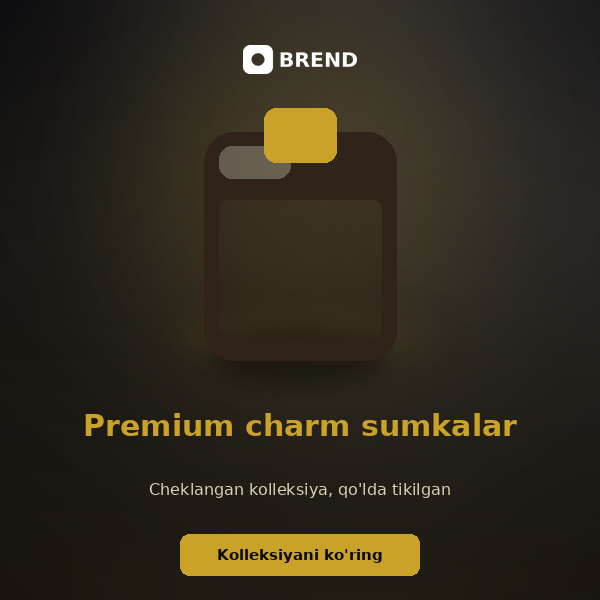
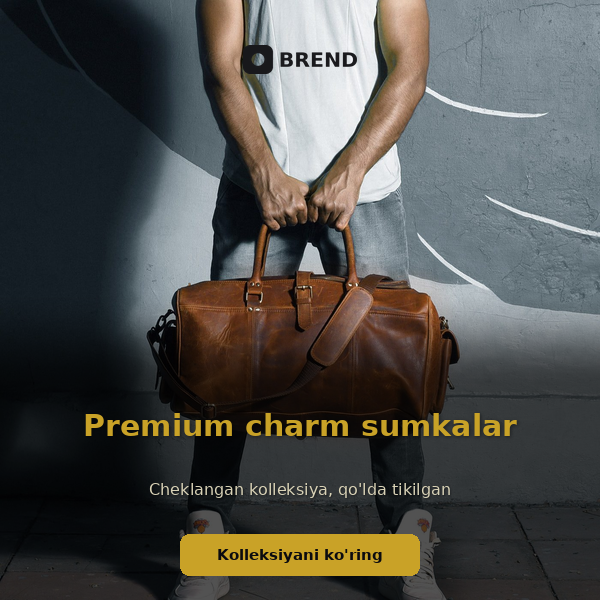
Kreativ shablonlar: haqiqiy suratlar (Burst) + matn uchun avtomatik scrim
20 ta shablon va 6 ta karusel namunasi endi professional suratlarda
(Shopify Burst, tijorat uchun bepul — photos/CREDITS.md). Matn surat
ustida o'qilmay qolmasligi uchun WCAG kontrastga qarab avtomatik
gradient scrim va och matnga soya qo'shildi.

Claude-Session: https://claude.ai/code/session_01SJvgJXRoFNgq3MB6ZPfDzq

diff --git a/app/creative_studio.py b/app/creative_studio.py
@@ -1842,6 +1842,7 @@ def _draw_text_layer(canvas, layer, W, H):
     draw = ImageDraw.Draw(canvas)
     color = _hex_to_rgb(layer.get("color"))
     align = layer.get("align") or "left"
+    positions = []
     cy = y
     for ln in lines:
         lw = font.getlength(ln)
@@ -1851,8 +1852,20 @@ def _draw_text_layer(canvas, layer, W, H):
             lx = x + w - lw
         else:
             lx = x
-        draw.text((lx, cy), ln, font=font, fill=color + (255,))
+        positions.append((lx, cy, ln))
         cy += line_h
+    # 2026-10-01: och rangli matnga yengil soya -- surat ustida ham aniq
+    # o'qilsin (reklamalardagi standart usul). To'q matnga soya qo'yilmaydi.
+    if _rel_luminance(color) > 0.35 and not layer.get("no_shadow"):
+        from PIL import Image, ImageFilter
+        shadow = Image.new("RGBA", canvas.size, (0, 0, 0, 0))
+        sd = ImageDraw.Draw(shadow)
+        off = max(1, int(size * 0.05))
+        for lx, ly, ln in positions:
+            sd.text((lx + off, ly + off), ln, font=font, fill=(0, 0, 0, 120))
+        canvas.alpha_composite(shadow.filter(ImageFilter.GaussianBlur(radius=max(1, int(size * 0.08)))))
+    for lx, ly, ln in positions:
+        draw.text((lx, ly), ln, font=font, fill=color + (255,))
 
 
 def _draw_badge(canvas, layer, W, H):
@@ -1922,6 +1935,103 @@ def _draw_logo(canvas, layer, W, H, logo_path: "Path | None"):
     canvas.alpha_composite(logo, (lx, ly))
 
 
+def _rel_luminance(rgb) -> float:
+    def ch(c):
+        c = c / 255.0
+        return c / 12.92 if c <= 0.03928 else ((c + 0.055) / 1.055) ** 2.4
+    r, g, b = rgb[:3]
+    return 0.2126 * ch(r) + 0.7152 * ch(g) + 0.0722 * ch(b)
+
+
+def _contrast(l1: float, l2: float) -> float:
+    hi, lo = max(l1, l2), min(l1, l2)
+    return (hi + 0.05) / (lo + 0.05)
+
+
+# 2026-10-01: matn surat ustida o'qilmay qolmasligi uchun avtomatik "scrim".
+# Matn qutisi ostidagi fon yetarli kontrast bermasa (WCAG < 4.5) yoki juda
+# "ola-bula" bo'lsa -- matn ortiga yumshoq (chetlari xira) qoraytirish yoki
+# yoritish chiziladi. Tekis rangli fonda hech narsa o'zgarmaydi.
+SCRIM_MIN_CONTRAST = 4.5
+SCRIM_BUSY_STDEV = 0.12
+
+
+def _scrim_need(canvas, layer, W, H):
+    """Matn qatlami uchun scrim kerak bo'lsa (qoraytirish?, alfa, y0, y1), aks holda None."""
+    import statistics
+    x, y = int(layer["x"] * W), int(layer["y"] * H)
+    w, h = max(1, int(layer["w"] * W)), max(1, int(layer["h"] * H))
+    region = canvas.crop((max(0, x), max(0, y), min(W, x + w), min(H, y + h))).convert("RGB").resize((16, 16))
+    pixels = list(region.getdata())
+    lums = [_rel_luminance(px) for px in pixels]
+    bg_lum = sum(lums) / len(lums)
+    busy = statistics.pstdev(lums) > SCRIM_BUSY_STDEV
+    text_lum = _rel_luminance(_hex_to_rgb(layer.get("color")))
+    if _contrast(text_lum, bg_lum) >= SCRIM_MIN_CONTRAST and not busy:
+        return None
+    dark = _contrast(text_lum, 0.0) >= _contrast(text_lum, 1.0)
+    scrim = (0, 0, 0) if dark else (255, 255, 255)
+    avg = tuple(sum(px[i] for px in pixels) / len(pixels) for i in range(3))
+    alpha = 0.35
+    while alpha < 0.85:
+        mixed = tuple(avg[i] * (1 - alpha) + scrim[i] * alpha for i in range(3))
+        if _contrast(text_lum, _rel_luminance(mixed)) >= SCRIM_MIN_CONTRAST + 1.5:
+            break
+        alpha += 0.05
+    if busy:
+        alpha = max(alpha, 0.68 if dark else 0.75)
+    return dark, min(alpha, 0.85), y, y + h
+
+
+def _auto_scrim(canvas, layers: list[dict], W: int, H: int) -> None:
+    """Pastdagi matnlar uchun -- pastdan, tepadagilar uchun -- tepadan
+    to'liq kenglikdagi silliq gradient (reklamalardagi kabi); o'rtadagilar
+    uchun -- yumshoq chetli tasma."""
+    from PIL import Image, ImageDraw, ImageFilter
+    needs = []
+    for layer in layers or []:
+        if layer.get("hidden") or layer.get("type") != "text" or layer.get("no_scrim"):
+            continue
+        text = (layer.get("text") or "").strip()
+        if not text or "{{" in text:
+            continue
+        r = _scrim_need(canvas, layer, W, H)
+        if r:
+            needs.append(r)
+    if not needs:
+        return
+    groups = {"top": [], "mid": [], "bottom": []}
+    for dark, alpha, y0, y1 in needs:
+        c = (y0 + y1) / 2 / H
+        groups["top" if c < 0.35 else ("bottom" if c > 0.55 else "mid")].append((dark, alpha, y0, y1))
+    feather = int(H * 0.16)
+    for pos, items in groups.items():
+        if not items:
+            continue
+        dark = sum(1 for i in items if i[0]) >= len(items) / 2
+        alpha = max(i[1] for i in items)
+        y0, y1 = min(i[2] for i in items), max(i[3] for i in items)
+        mask = Image.new("L", (1, H), 0)
+        md = mask.load()
+        for yy in range(H):
+            if pos == "bottom":
+                t = 1.0 if yy >= y0 - feather * 0.25 else max(0.0, 1 - (y0 - feather * 0.25 - yy) / feather)
+            elif pos == "top":
+                t = 1.0 if yy <= y1 + feather * 0.25 else max(0.0, 1 - (yy - y1 - feather * 0.25) / feather)
+            else:
+                pad = feather * 0.35
+                if y0 - pad <= yy <= y1 + pad:
+                    t = 1.0
+                else:
+                    dist = (y0 - pad - yy) if yy < y0 - pad else (yy - y1 - pad)
+                    t = max(0.0, 1 - dist / (feather * 0.7))
+            md[0, yy] = int(255 * alpha * (t * t * (3 - 2 * t)))  # smoothstep
+        mask = mask.resize((W, H))
+        color = Image.new("RGBA", (W, H), ((0, 0, 0) if dark else (255, 255, 255)) + (255,))
+        color.putalpha(mask)
+        canvas.alpha_composite(color)
+
+
 def render_composite(base_image_path: "Path", layers: list[dict], brand_kit, out_path: "Path", *, target_size: "tuple[int, int]") -> None:
     """Pillow orqali: base rasmni `target_size`ga 'cover' rejimida (nisbatni
     saqlab, markazdan kesib) moslaydi, so'ng har bir qatlamni chizadi:
@@ -1940,9 +2050,18 @@ def render_composite(base_image_path: "Path", layers: list[dict], brand_kit, out
         base = raw.convert("RGB")
     canvas = _cover_resize(base, (W, H)).convert("RGBA")
     logo_path = brand_logo_file_path(brand_kit)
+    scrim_done = False
     for layer in layers or []:
         if layer.get("hidden"):
             continue
+        if not scrim_done and layer.get("type") == "text":
+            # Panellar (agar oldinroq bo'lsa) chizilgandan keyin, birinchi
+            # matndan oldin -- matn qutilari ostini bir marta tekshiramiz.
+            try:
+                _auto_scrim(canvas, layers, W, H)
+            except Exception as e:  # noqa: BLE001
+                logger.warning("creative_studio: scrim chizilmadi: %s", e)
+            scrim_done = True
         try:
             ltype = layer.get("type")
             if ltype == "panel":

diff --git a/app/scripts/test_creative_scrim_offline.py b/app/scripts/test_creative_scrim_offline.py
@@ -1,0 +1,101 @@
+"""test_creative_scrim_offline.py — Kreativ studiya: matn surat ustida
+o'qilishi uchun avtomatik "scrim" (`creative_studio._auto_scrim`):
+
+  1. Tekis to'q fonda oq matn -- kontrast yetarli, rasm O'ZGARMAYDI.
+  2. Ola-bula (yorug'/qorong'i chiziqli) fonda oq matn -- matn ostidagi
+     o'rtacha kontrast WCAG 4.5 dan oshadi (qoraytiriladi), tepasi tegilmaydi.
+  3. Yorug' fonda qora matn -- oq yoritish chiziladi (fon yorug'lashadi).
+  4. `no_scrim`, yashirin, bo'sh / placeholder matn -- e'tiborsiz qoladi.
+  5. `render_composite` oxirigacha ishlaydi.
+Tashqi tarmoq so'rovi yo'q.
+"""
+import os
+import sys
+import tempfile
+from pathlib import Path
+
+sys.path.insert(0, os.path.dirname(os.path.dirname(os.path.abspath(__file__))))
+os.environ.setdefault("DATABASE_URL", f"sqlite:///{os.path.join(tempfile.mkdtemp(), 'scrim.db')}")
+
+from PIL import Image, ImageDraw  # noqa: E402
+
+import creative_studio as cs  # noqa: E402
+
+W = H = 400
+FAILED = []
+
+
+def check(name, cond):
+    print(("PASS " if cond else "FAIL ") + name)
+    if not cond:
+        FAILED.append(name)
+
+
+def text_layer(**kw):
+    d = {"type": "text", "text": "Yangi kolleksiya", "x": 0.05, "y": 0.75, "w": 0.9, "h": 0.15, "color": "#FFFFFF"}
+    d.update(kw)
+    return d
+
+
+def busy_canvas():
+    im = Image.new("RGBA", (W, H), (255, 255, 255, 255))
+    d = ImageDraw.Draw(im)
+    for x in range(0, W, 20):
+        d.rectangle((x, 0, x + 9, H), fill=(20, 20, 20, 255))
+    return im
+
+
+def region_contrast(canvas, layer):
+    x, y = int(layer["x"] * W), int(layer["y"] * H)
+    reg = canvas.crop((x, y, x + int(layer["w"] * W), y + int(layer["h"] * H))).convert("RGB")
+    px = list(reg.getdata())
+    avg = tuple(sum(p[i] for p in px) / len(px) for i in range(3))
+    return cs._contrast(cs._rel_luminance(cs._hex_to_rgb(layer["color"])), cs._rel_luminance(avg))
+
+
+# 1. Tekis to'q fon
+solid = Image.new("RGBA", (W, H), (15, 23, 42, 255))
+before = solid.tobytes()
+cs._auto_scrim(solid, [text_layer()], W, H)
+check("tekis to'q fon + oq matn -> o'zgarishsiz", solid.tobytes() == before)
+
+# 2. Ola-bula fon, oq matn
+busy = busy_canvas()
+L = text_layer()
+c0 = region_contrast(busy, L)
+top_before = busy.crop((0, 0, W, 60)).tobytes()
+cs._auto_scrim(busy, [L], W, H)
+c1 = region_contrast(busy, L)
+check(f"ola-bula fon: kontrast {c0:.2f} -> {c1:.2f} (>=4.5)", c0 < 4.5 <= c1)
+check("pastki matn uchun scrim tepani o'zgartirmaydi", busy.crop((0, 0, W, 60)).tobytes() == top_before)
+
+# 3. Kulrang fon, qora matn -> yoritish
+light = Image.new("RGBA", (W, H), (100, 100, 100, 255))
+D = text_layer(color="#111111", y=0.05)
+c0 = region_contrast(light, D)
+cs._auto_scrim(light, [D], W, H)
+px = light.getpixel((W // 2, int(0.1 * H)))
+check("to'q kulrang fonda qora matn: fon yorug'lashdi", px[0] > 100 and region_contrast(light, D) >= 4.5 and region_contrast(light, D) > c0)
+
+# 4. no_scrim / yashirin / bo'sh / placeholder
+for name, lay in (("no_scrim", text_layer(no_scrim=True)), ("bo'sh matn", text_layer(text="  ")),
+                  ("placeholder", text_layer(text="{{headline}}")), ("yashirin", text_layer(hidden=True))):
+    im = busy_canvas()
+    b = im.tobytes()
+    cs._auto_scrim(im, [lay], W, H)
+    check(f"{name} -> e'tiborsiz", im.tobytes() == b)
+
+# 5. render_composite oxirigacha
+tmp = Path(tempfile.mkdtemp())
+src = tmp / "src.png"
+busy_canvas().convert("RGB").save(src)
+out = tmp / "out.png"
+cs.render_composite(src, [text_layer()], None, out, target_size=(W, H))
+with Image.open(out) as o:
+    check("render_composite: PNG to'g'ri o'lchamda", o.size == (W, H))
+
+print()
+if FAILED:
+    print(f"{len(FAILED)} ta test YIQILDI: {FAILED}")
+    sys.exit(1)
+print("Hammasi o'tdi.")

diff --git a/app/scripts/render_template_thumbnails.py b/app/scripts/render_template_thumbnails.py
@@ -338,6 +338,45 @@ def _logo_is_dark(tpl: dict, scene: Image.Image, size) -> bool:
     return lum > 140
 
 
+PHOTO_DIR = OUT_DIR / "photos"
+# Kadrdagi asosiy obyekt joylashuvi (0..1) -- "cover" kesishda shu nuqta
+# markazda qoladi (standart -- markaz).
+FOCUS = {
+    "minimal_clean": (0.62, 0.55), "luxury_dark": (0.5, 0.45), "tech_gradient": (0.62, 0.5),
+    "auto_dynamic": (0.5, 0.55), "new_arrival": (0.5, 0.6), "price_tag_highlight": (0.62, 0.5),
+    "real_estate_clean": (0.5, 0.35), "fashion_editorial": (0.5, 0.3), "testimonial_quote": (0.5, 0.3),
+    "before_after_split": (0.5, 0.35), "story_fullbleed": (0.5, 0.4),
+}
+
+
+def _photo_scene(tpl: dict, size: "tuple[int, int]") -> "Image.Image | None":
+    """2026-10-01 (foydalanuvchi: "shablonlarni real shablonlarga almashtir"):
+    namuna foni -- HAQIQIY surat (Shopify Burst, litsenziya: photos/CREDITS.md),
+    obyekt markazda qoladigan "cover" kesish bilan. Matn o'qilishini
+    `creative_studio._auto_scrim` ta'minlaydi (mijozning o'z suratida ham)."""
+    path = PHOTO_DIR / f"{tpl['key']}.jpg"
+    if not path.exists():
+        return None
+    W, H = size
+    img = Image.open(path).convert("RGB")
+    scale = max(W / img.width, H / img.height)
+    nw, nh = int(img.width * scale + 0.5), int(img.height * scale + 0.5)
+    img = img.resize((nw, nh), Image.LANCZOS)
+    fx, fy = FOCUS.get(tpl["key"], (0.5, 0.5))
+    left = min(max(0, int(fx * nw - W / 2)), nw - W)
+    top = min(max(0, int(fy * nh - H / 2)), nh - H)
+    img = img.crop((left, top, left + W, top + H))
+    if tpl["key"] == "before_after_split":
+        # "Avval" yarmi -- xira, sovuq, rangsizroq; "Keyin" -- asl surat.
+        from PIL import ImageEnhance
+        half = img.crop((0, 0, W // 2, H))
+        half = ImageEnhance.Color(half).enhance(0.35)
+        half = ImageEnhance.Brightness(half).enhance(0.82)
+        img.paste(half, (0, 0))
+        ImageDraw.Draw(img).rectangle((W // 2 - 2, 0, W // 2 + 2, H), fill=(255, 255, 255))
+    return img
+
+
 def render_all() -> list[Path]:
     OUT_DIR.mkdir(parents=True, exist_ok=True)
     tmp = Path(tempfile.mkdtemp())
@@ -347,7 +386,7 @@ def render_all() -> list[Path]:
     written = []
     for tpl in creative_templates.CREATIVE_TEMPLATES:
         size = _thumb_size(tpl["aspect_default"])
-        scene = _scene(tpl, size)
+        scene = _photo_scene(tpl, size) or _scene(tpl, size)
         base_path = tmp / f"{tpl['key']}_base.png"
         scene.save(base_path, format="PNG")
         values = dict(_BASE)

diff --git a/app/scripts/render_carousel_thumbnails.py b/app/scripts/render_carousel_thumbnails.py
@@ -71,7 +71,7 @@ def render_all() -> list[Path]:
     for style in creative_carousel.CAROUSEL_STYLES:
         scene_key, sample = SAMPLES[style["key"]]
         tpl = creative_templates.get_template(scene_key)
-        scene = base_thumbs._scene(tpl, (CARD_PX, CARD_PX))
+        scene = base_thumbs._photo_scene(tpl, (CARD_PX, CARD_PX)) or base_thumbs._scene(tpl, (CARD_PX, CARD_PX))
         base_path = tmp / f"{style['key']}_base.png"
         scene.save(base_path, format="PNG")
         cards = creative_carousel.plan_cards(sample, 4)

diff --git a/app/static/creative_templates/photos/CREDITS.md b/app/static/creative_templates/photos/CREDITS.md
@@ -1,0 +1,27 @@
+# Shablon namunalari uchun suratlar
+
+Manba: Shopify Burst (https://burst.shopify.com) — Burst litsenziyasi: tijoriy va notijoriy foydalanish, o'zgartirish mumkin; atributsiya shart emas (lekin tavsiya etiladi); suratlarning o'zini fayl sifatida sotish mumkin emas.
+https://burst.shopify.com/licenses/shopify-some-rights-reserved
+
+| Shablon | Surat |
+|---|---|
+| minimal_clean | https://burst.shopify.com/photos/yellow-sofa-with-throw-pillows |
+| bold_sale | https://burst.shopify.com/photos/woman-with-white-crisp-shopping-carrier-bags |
+| luxury_dark | https://burst.shopify.com/photos/man-holding-his-leather-travel-bag |
+| tech_gradient | https://burst.shopify.com/photos/apple-iphone-macbook__1_ |
+| warm_food | https://burst.shopify.com/photos/puff-pastry-plated |
+| real_estate_clean | https://burst.shopify.com/photos/curved-pathway-outside-apartment-building |
+| fashion_editorial | https://burst.shopify.com/photos/model-with-leather-jacket-over-shoulders |
+| before_after_split | https://burst.shopify.com/photos/face-treatment-with-a-smile |
+| countdown_urgency | https://burst.shopify.com/photos/sale-written-in-lights |
+| testimonial_quote | https://burst.shopify.com/photos/portrait-of-person-with-long-brown-hair-smiling-in-white |
+| feature_grid | https://burst.shopify.com/photos/modern-grey-couch-and-pillows |
+| new_arrival | https://burst.shopify.com/photos/hightop-lighted-sneakers |
+| seasonal_promo | https://burst.shopify.com/photos/brightly-colored-gift-box |
+| corporate_professional | https://burst.shopify.com/photos/three-business-women |
+| beauty_soft | https://burst.shopify.com/photos/makeup-beauty-flatlay |
+| auto_dynamic | https://burst.shopify.com/photos/Classic-Red-Car |
+| education_friendly | https://burst.shopify.com/photos/students-working-and-studying-flatlay |
+| collage_multi | https://burst.shopify.com/photos/light-up-shoes |
+| story_fullbleed | https://burst.shopify.com/photos/side-view-colorful-clothing-on-hangers |
+| price_tag_highlight | https://burst.shopify.com/photos/stainless-steel-washing-machine-door |
